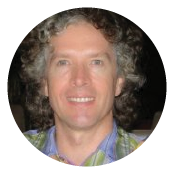
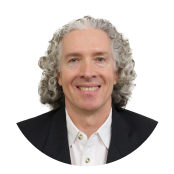
updated photos

diff --git a/company.html b/company.html
@@ -113,10 +113,10 @@
               <li class="lines"></li>
 
               <li class="item">
-                   <a href="#" data-largesrc="assets/img/ragu_250px.png" data-title="Raghu Chakravarthi" data-subitle="VP of Engineering" data-description="Raghu is the Vice President of Engineering at Jolata. Raghu possesses a deep knowledge of overall product development in realtime data analytics and big data. Prior to Jolata, Raghu served as Senior Director of engineering at Hyperion Solutions, a publicy traded Business Intelligence software company, acquired by Oracle in 2007. At Hyperion and Oracle, Raghu helped create the indstry's first data lifecycle management  platform for corporate performance management including ETL, data cleansing, analytics and metadata management. Prior to Oracle, he was the data architect in the enterprise datawarehouse team at Sabre, which was spun out of American Airlines in 1997. When not hacking, Raghu loves to read about world history and volunteers as a coach for school’s math olympiad team and the local little league baseball team.">
+                   <a href="#" data-largesrc="assets/img/raghu_250px.png" data-title="Raghu Chakravarthi" data-subitle="VP of Engineering" data-description="Raghu is the Vice President of Engineering at Jolata. Raghu possesses a deep knowledge of overall product development in realtime data analytics and big data. Prior to Jolata, Raghu served as Senior Director of engineering at Hyperion Solutions, a publicy traded Business Intelligence software company, acquired by Oracle in 2007. At Hyperion and Oracle, Raghu helped create the indstry's first data lifecycle management  platform for corporate performance management including ETL, data cleansing, analytics and metadata management. Prior to Oracle, he was the data architect in the enterprise datawarehouse team at Sabre, which was spun out of American Airlines in 1997. When not hacking, Raghu loves to read about world history and volunteers as a coach for school’s math olympiad team and the local little league baseball team.">
                       <figure>
                         <p class="olay"><span><strong>Raghu Chakravarthi</strong><br>VP of Engineering</span></p>
-                        <img src="assets/img/ragu_174px.png">
+                        <img src="assets/img/raghu_174px.png">
                       </figure>
                       <p class="desc">
                           <strong>Raghu Chakravarthi</strong><br>
